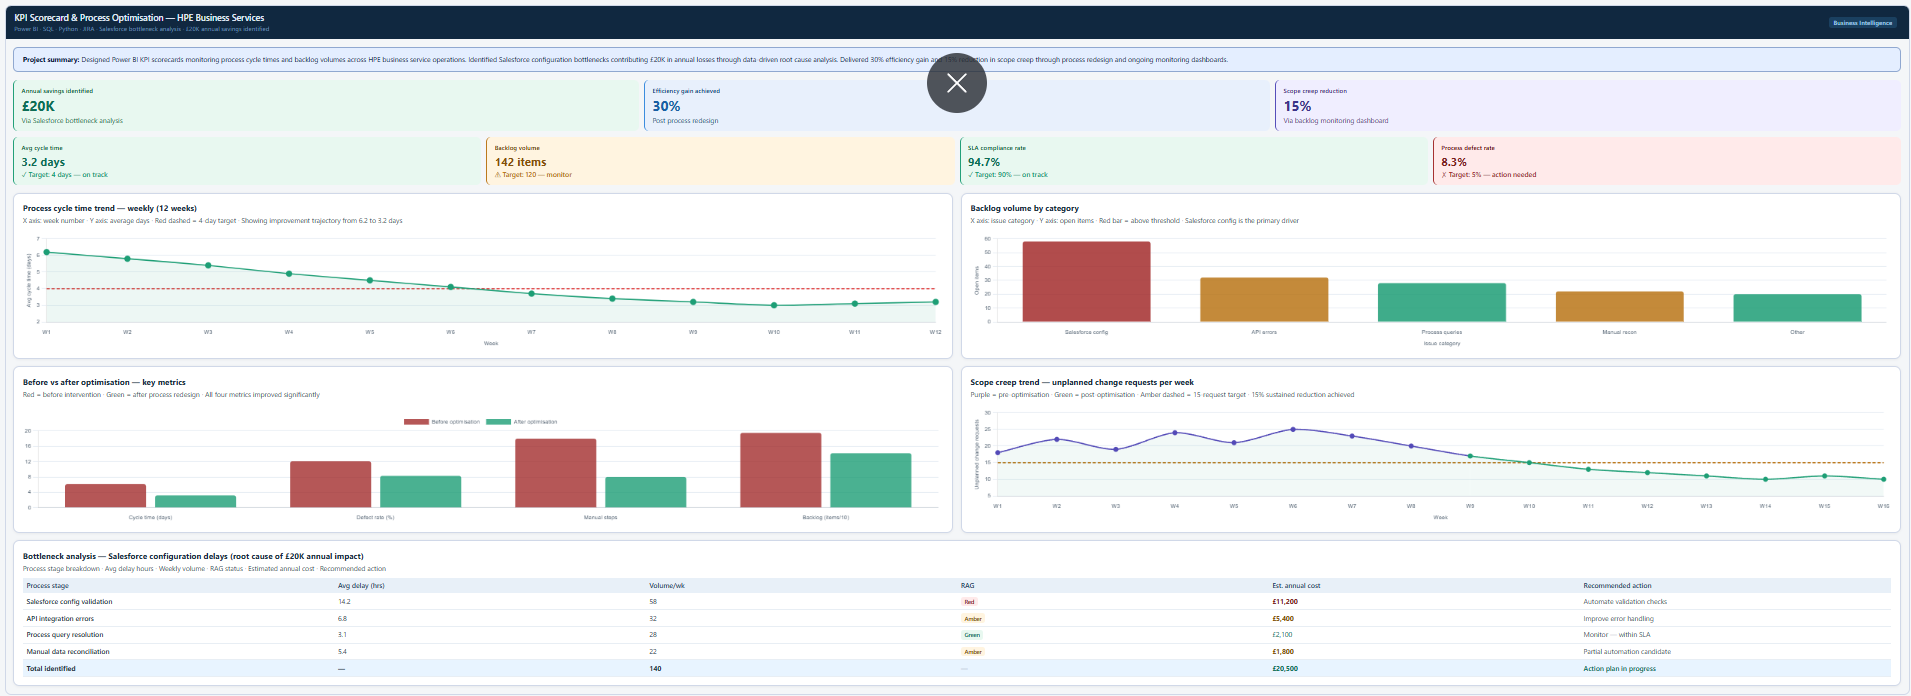
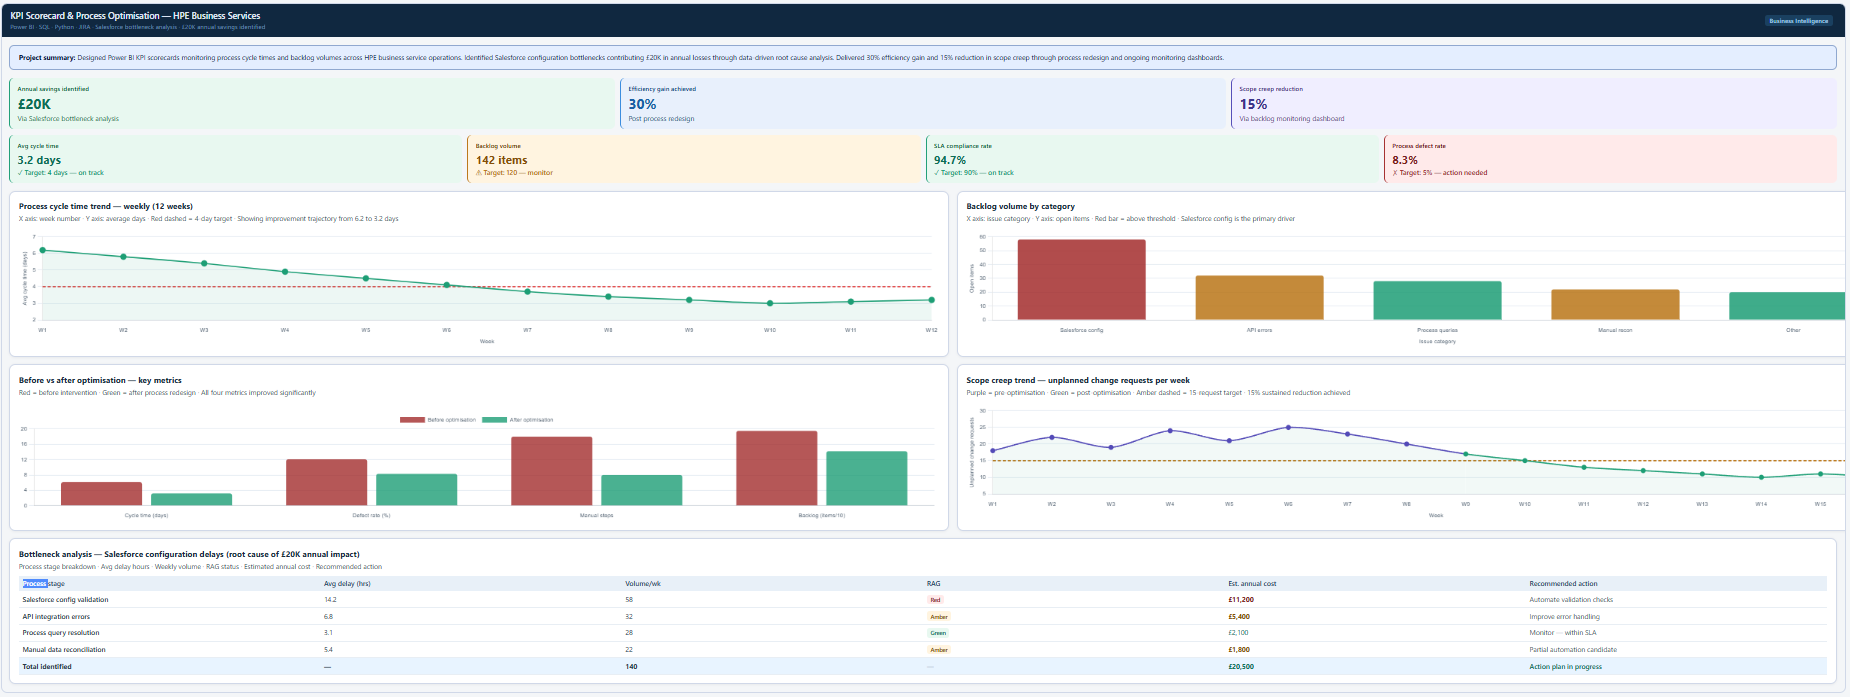
Fix contact form with Formspree, fix mobile nav, remove pulse animation

diff --git a/src/components/Contact.jsx b/src/components/Contact.jsx
@@ -1,6 +1,4 @@
-import { useState } from 'react'
 import { motion } from 'framer-motion'
-import emailjs from '@emailjs/browser'
 
 const fadeUp = {
   hidden: { opacity: 0, y: 30 },
@@ -42,27 +40,6 @@ const contactInfo = [
 ]
 
 export default function Contact() {
-  const [form, setForm] = useState({ name: '', email: '', message: '' })
-  const [status, setStatus] = useState(null)
-
-  const handleChange = (e) => setForm({ ...form, [e.target.name]: e.target.value })
-
-  const handleSubmit = async (e) => {
-    e.preventDefault()
-    setStatus('loading')
-    try {
-      await emailjs.send(
-        import.meta.env.VITE_EMAILJS_SERVICE_ID,
-        import.meta.env.VITE_EMAILJS_TEMPLATE_ID,
-        { from_name: form.name, from_email: form.email, message: form.message },
-        import.meta.env.VITE_EMAILJS_PUBLIC_KEY,
-      )
-      setStatus('success')
-      setForm({ name: '', email: '', message: '' })
-    } catch {
-      setStatus('error')
-    }
-  }
 
   return (
     <section id="contact" className="py-24 px-6 bg-navy-light">
@@ -122,16 +99,16 @@ export default function Contact() {
             whileInView="visible"
             viewport={{ once: true }}
             transition={{ duration: 0.5, delay: 0.2 }}
-            onSubmit={handleSubmit}
+            action="https://formspree.io/f/mkoypzlg"
+            method="POST"
             className="space-y-4"
           >
+            <input type="hidden" name="_subject" value="Portfolio Enquiry — Trisha Roy" />
             <input
               type="text"
               name="name"
               placeholder="Your Name"
               required
-              value={form.name}
-              onChange={handleChange}
               className="w-full bg-navy border border-navy-lighter rounded-lg px-4 py-3 text-slate-light placeholder-slate-muted/50 focus:outline-none focus:border-teal transition-colors"
             />
             <input
@@ -139,8 +116,6 @@ export default function Contact() {
               name="email"
               placeholder="Your Email"
               required
-              value={form.email}
-              onChange={handleChange}
               className="w-full bg-navy border border-navy-lighter rounded-lg px-4 py-3 text-slate-light placeholder-slate-muted/50 focus:outline-none focus:border-teal transition-colors"
             />
             <textarea
@@ -148,23 +123,20 @@ export default function Contact() {
               placeholder="Your Message"
               required
               rows={5}
-              value={form.message}
-              onChange={handleChange}
               className="w-full bg-navy border border-navy-lighter rounded-lg px-4 py-3 text-slate-light placeholder-slate-muted/50 focus:outline-none focus:border-teal transition-colors resize-none"
             />
             <button
               type="submit"
-              disabled={status === 'loading'}
-              className="w-full py-3 bg-teal text-navy font-semibold rounded-lg hover:bg-teal-dark transition-colors disabled:opacity-60"
+              className="w-full py-3 bg-teal text-navy font-semibold rounded-lg hover:bg-teal-dark transition-colors"
             >
-              {status === 'loading' ? 'Sending…' : 'Send Message'}
+              Send Message
             </button>
-            {status === 'success' && (
-              <p className="text-teal text-sm text-center">Message sent! I'll be in touch soon.</p>
-            )}
-            {status === 'error' && (
-              <p className="text-red-400 text-sm text-center">Something went wrong. Please try emailing directly.</p>
-            )}
+            <p className="text-slate-muted/60 text-xs text-center">
+              Or email directly:{' '}
+              <a href="mailto:[email redacted]" className="text-teal hover:underline">
+                [email redacted]
+              </a>
+            </p>
           </motion.form>
         </div>
       </div>

diff --git a/src/components/Navbar.jsx b/src/components/Navbar.jsx
@@ -11,6 +11,8 @@ const NAV_LINKS = [
   { label: 'Contact', href: '#contact' },
 ]
 
+const NAVBAR_HEIGHT = 72
+
 export default function Navbar() {
   const [scrolled, setScrolled] = useState(false)
   const [menuOpen, setMenuOpen] = useState(false)
@@ -20,6 +22,16 @@ export default function Navbar() {
     window.addEventListener('scroll', onScroll)
     return () => window.removeEventListener('scroll', onScroll)
   }, [])
+
+  const handleNavClick = (e, href) => {
+    e.preventDefault()
+    setMenuOpen(false)
+    const id = href.replace('#', '')
+    const el = document.getElementById(id)
+    if (!el) return
+    const top = el.getBoundingClientRect().top + window.scrollY - NAVBAR_HEIGHT
+    window.scrollTo({ top, behavior: 'smooth' })
+  }
 
   return (
     <motion.nav
@@ -46,6 +58,7 @@ export default function Navbar() {
             <a
               key={link.label}
               href={link.href}
+              onClick={(e) => handleNavClick(e, link.href)}
               className="text-slate-muted hover:text-teal transition-colors text-sm font-medium"
             >
               {link.label}
@@ -86,7 +99,7 @@ export default function Navbar() {
                 <a
                   key={link.label}
                   href={link.href}
-                  onClick={() => setMenuOpen(false)}
+                  onClick={(e) => handleNavClick(e, link.href)}
                   className="text-slate-muted hover:text-teal transition-colors font-medium"
                 >
                   {link.label}

diff --git a/src/components/Hero.jsx b/src/components/Hero.jsx
@@ -96,12 +96,9 @@ export default function Hero() {
             </a>
 
             {/* Experience badge */}
-            <div className="relative inline-flex items-center justify-center">
-              <span className="absolute inline-flex h-full w-full rounded-full bg-teal/20 animate-ping opacity-60" />
-              <span className="relative px-3 py-1 rounded-full bg-teal/10 border border-teal/30 text-teal text-sm font-semibold whitespace-nowrap">
-                5+ Years Experience
-              </span>
-            </div>
+            <span className="px-3 py-1 rounded-full bg-teal/10 border border-teal/30 text-teal text-sm font-semibold whitespace-nowrap">
+              5+ Years Experience
+            </span>
           </motion.div>
         </div>
 